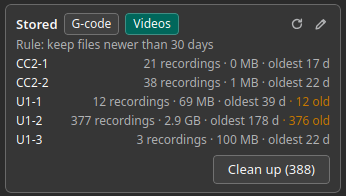
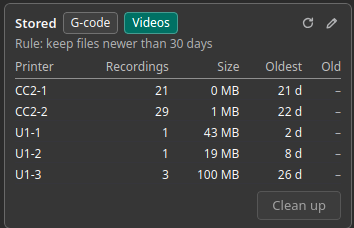
Docs: retake the Videos screenshot after the time-lapse clean-up

Changed region(s): [[0.0, 0.0, 1.0, 1.0], [0.6069, 0.8265, 0.9538, 0.949], [0.8382, 0.0612, 0.9538, 0.1531]]

diff --git a/README.md b/README.md
@@ -99,7 +99,7 @@ After **Slice all**, every plate is held for its printer type, one line each; cl
 
 **Stored files and cleanup**
 
-<img src="docs/videos.png" alt="Stored box on its Videos tab: recordings per printer, how many are old under the rule, and Clean up" width="346">
+<img src="docs/videos.png" alt="Stored box on its Videos tab: a table of recordings, size and oldest recording per printer, how many are old under the rule, and Clean up" width="354">
 
 The **Stored** box at the bottom lists every printer with its file count, size and oldest file, and how many files count as old under your rule.
 The pencil next to refresh sets the rule: keep files newer than N days, or keep the newest N files. **Clean up** shows what will be removed per printer and asks before deleting. Every printer is ticked in that dialog; untick any you want to leave alone.
